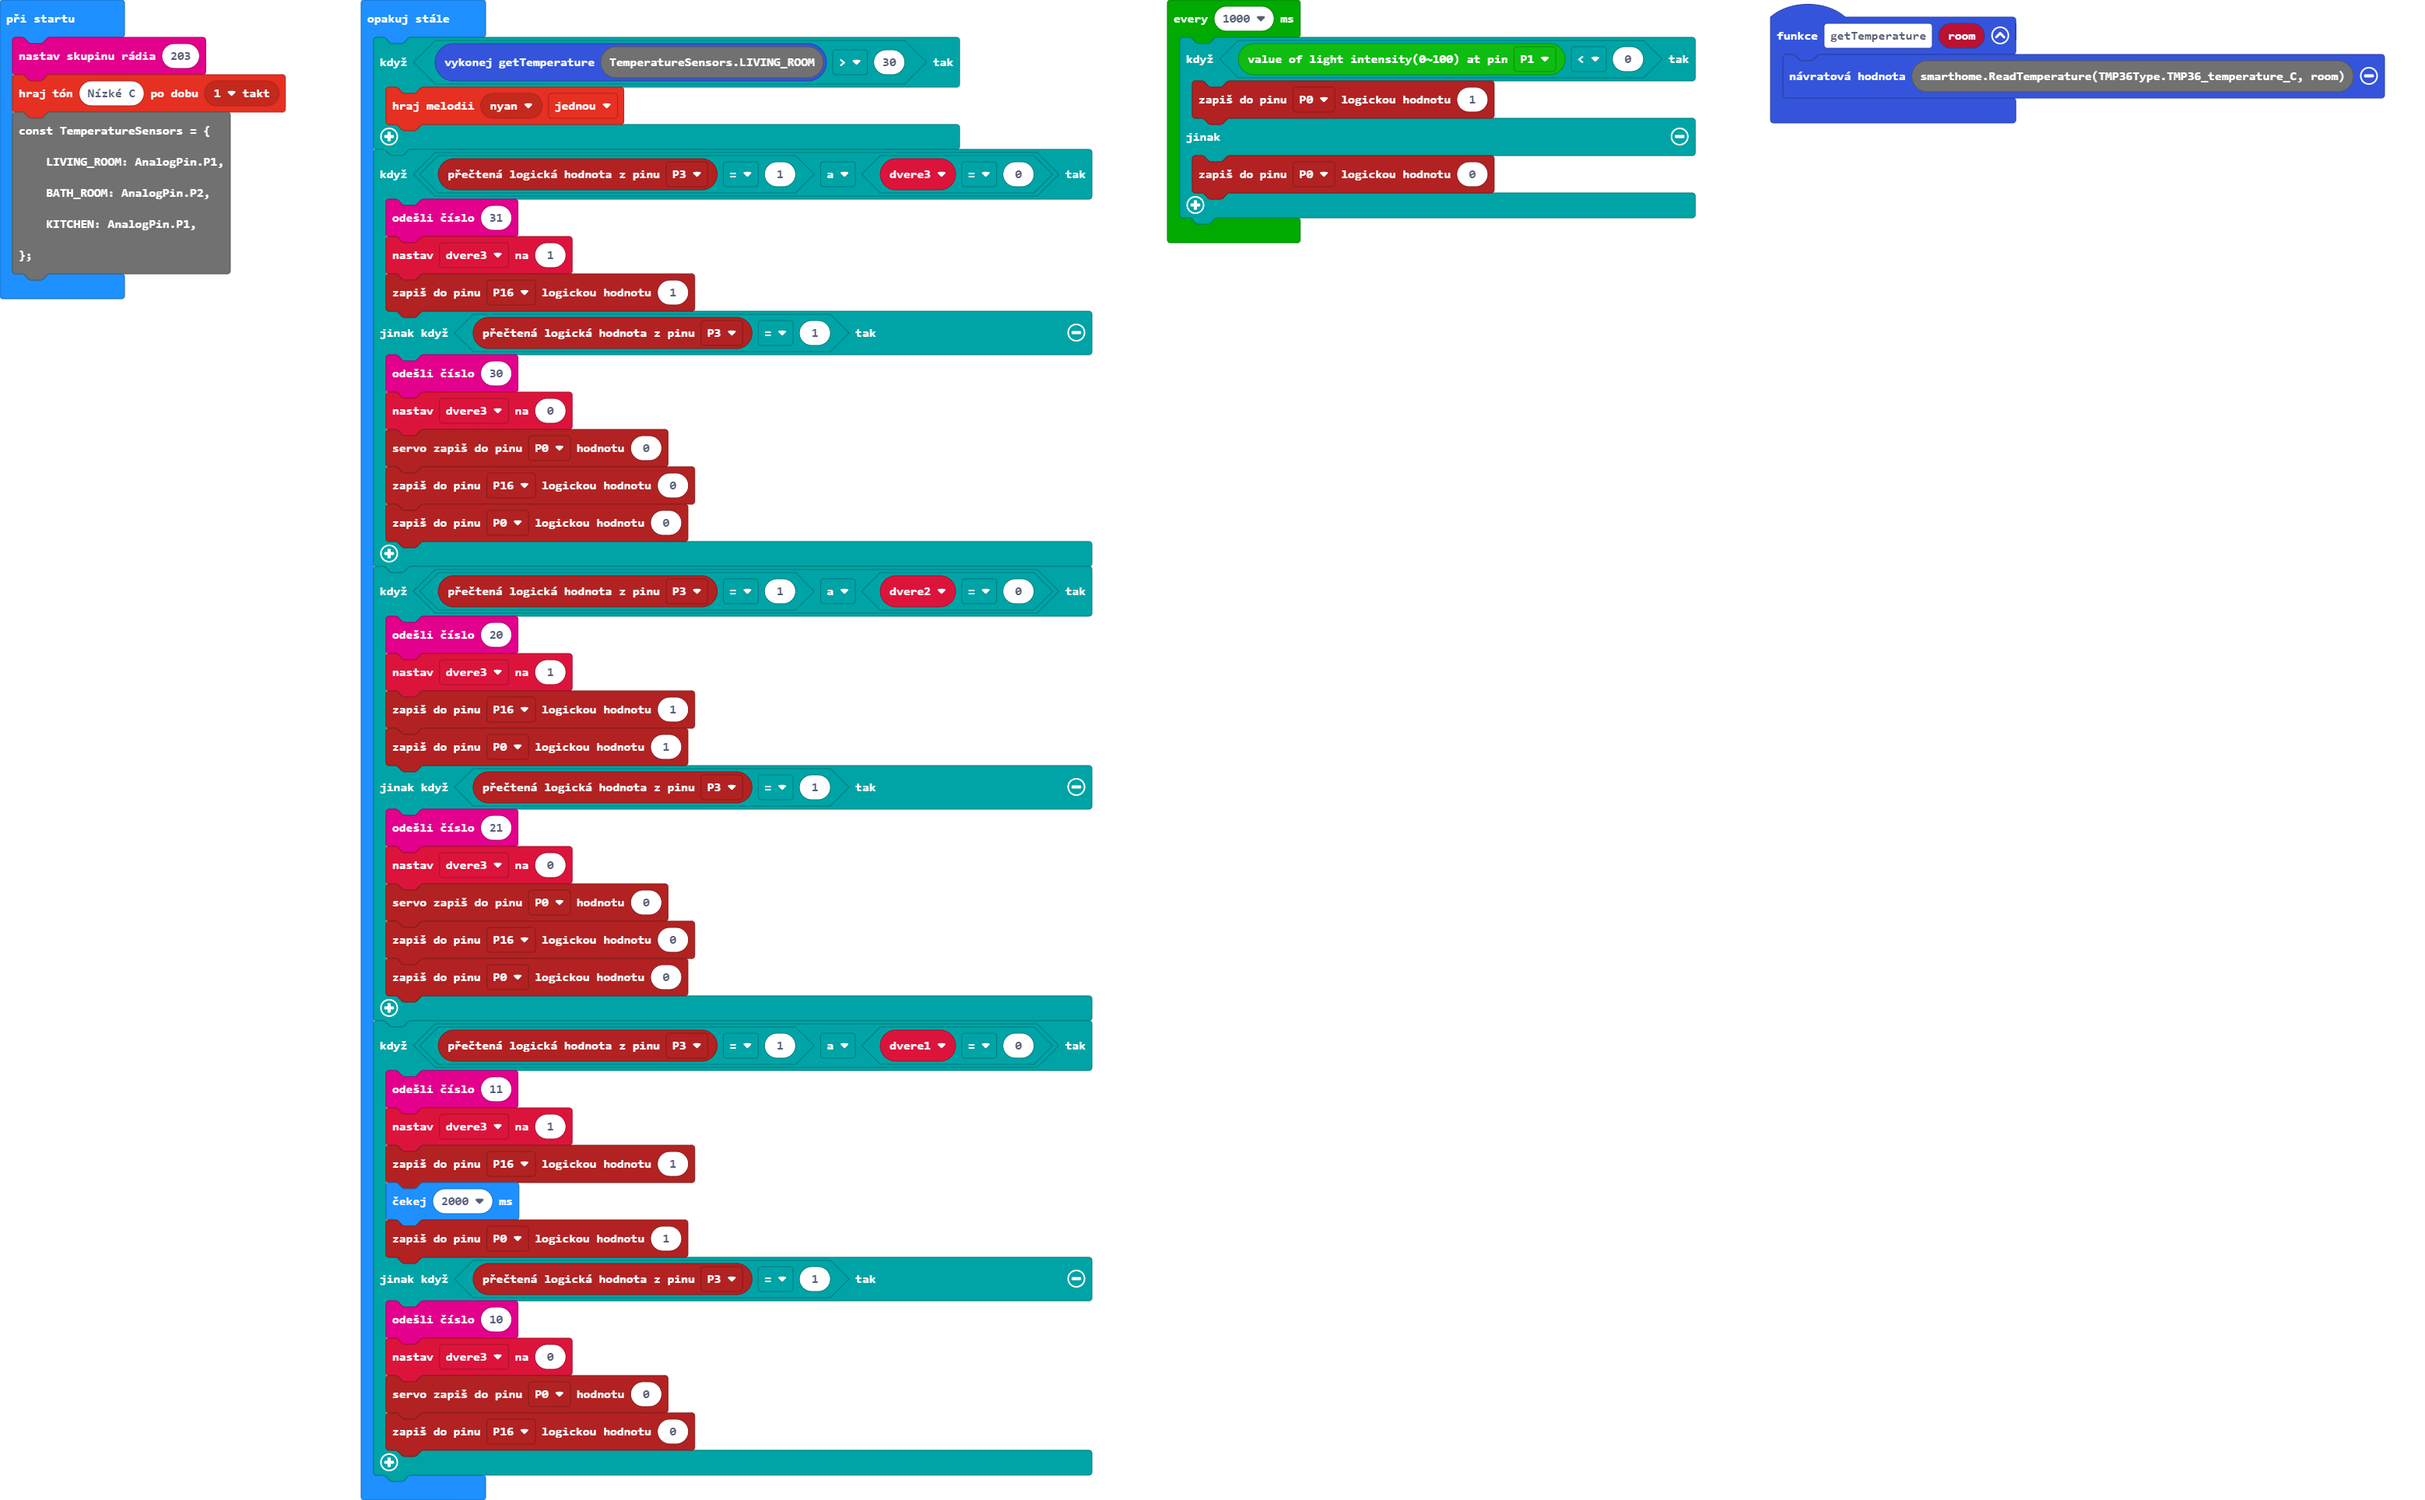
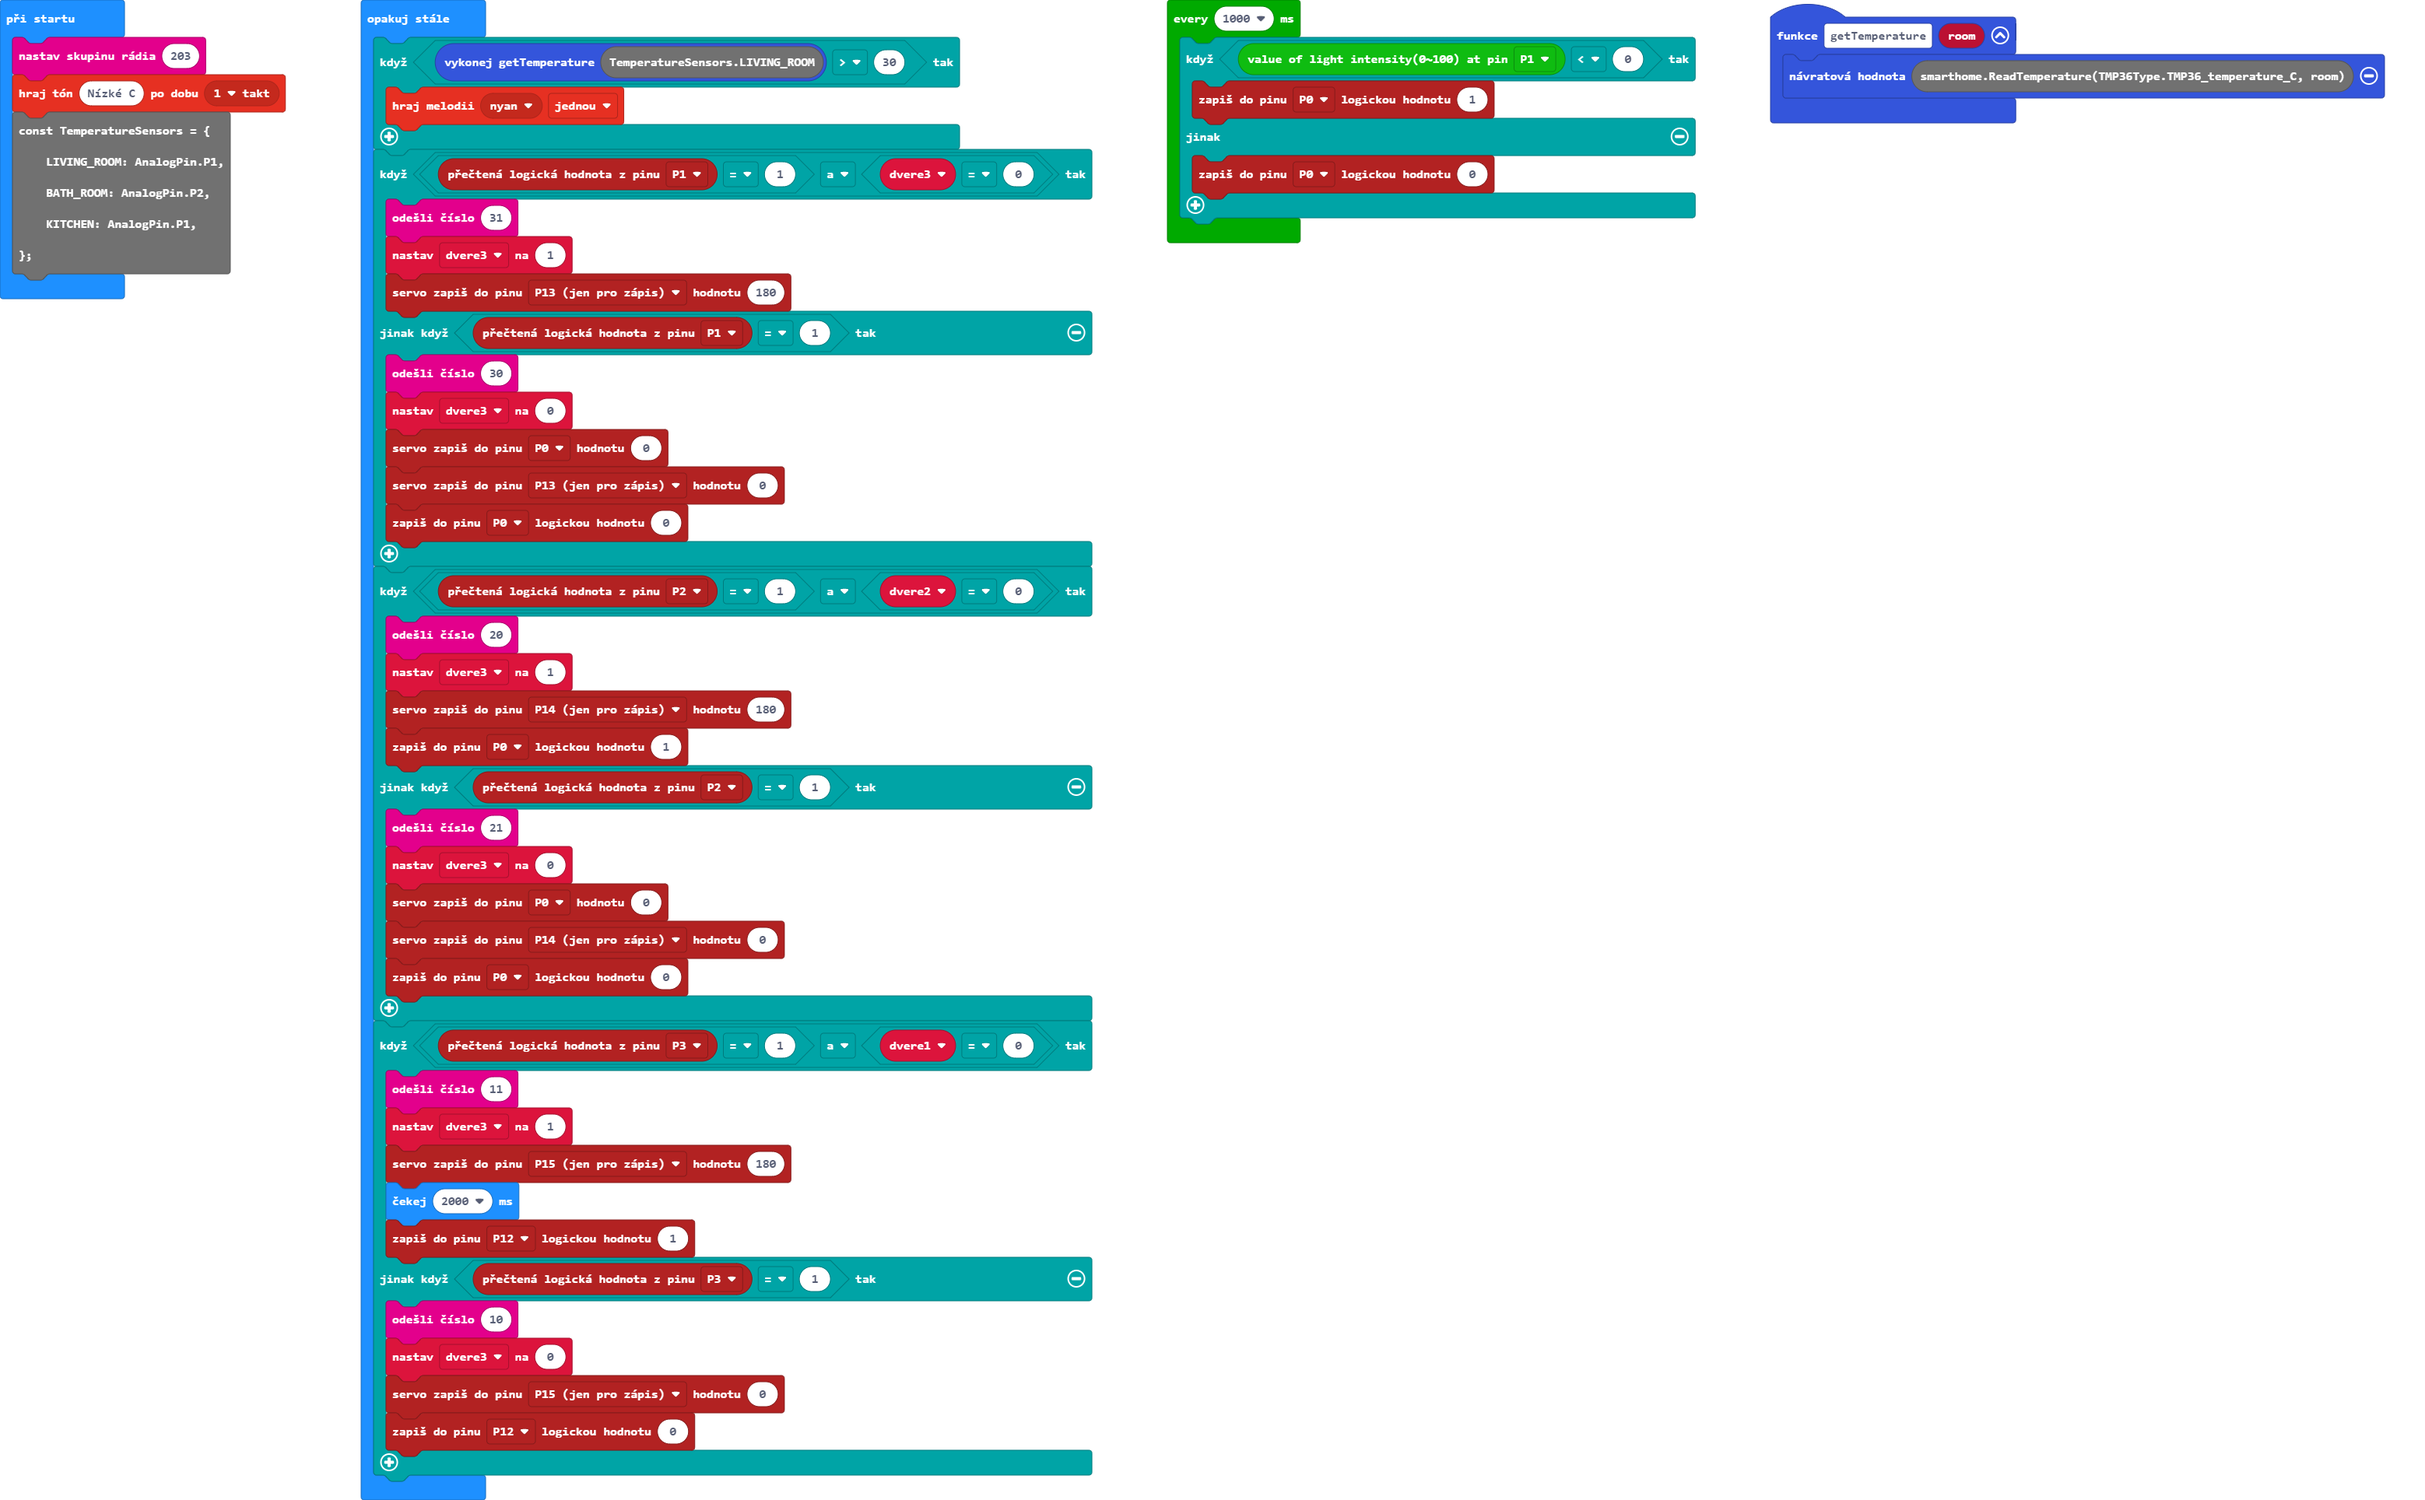
Aktualizovat pxt.json, main.blocks, main.ts

diff --git a/main.ts b/main.ts
@@ -22,39 +22,39 @@ basic.forever(function () {
     if (getTemperature(TemperatureSensors.LIVING_ROOM) > 30) {
         music.startMelody(music.builtInMelody(Melodies.Nyan), MelodyOptions.Once)
     }
-    if (pins.digitalReadPin(DigitalPin.P3) == 1 && dvere3 == 0) {
+    if (pins.digitalReadPin(DigitalPin.P1) == 1 && dvere3 == 0) {
         radio.sendNumber(31)
         dvere3 = 1
-        pins.digitalWritePin(DigitalPin.P16, 1)
-    } else if (pins.digitalReadPin(DigitalPin.P3) == 1) {
+        pins.servoWritePin(AnalogPin.P13, 180)
+    } else if (pins.digitalReadPin(DigitalPin.P1) == 1) {
         radio.sendNumber(30)
         dvere3 = 0
         pins.servoWritePin(AnalogPin.P0, 0)
-        pins.digitalWritePin(DigitalPin.P16, 0)
+        pins.servoWritePin(AnalogPin.P13, 0)
         pins.digitalWritePin(DigitalPin.P0, 0)
     }
-    if (pins.digitalReadPin(DigitalPin.P3) == 1 && dvere2 == 0) {
+    if (pins.digitalReadPin(DigitalPin.P2) == 1 && dvere2 == 0) {
         radio.sendNumber(20)
         dvere3 = 1
-        pins.digitalWritePin(DigitalPin.P16, 1)
+        pins.servoWritePin(AnalogPin.P14, 180)
         pins.digitalWritePin(DigitalPin.P0, 1)
-    } else if (pins.digitalReadPin(DigitalPin.P3) == 1) {
+    } else if (pins.digitalReadPin(DigitalPin.P2) == 1) {
         radio.sendNumber(21)
         dvere3 = 0
         pins.servoWritePin(AnalogPin.P0, 0)
-        pins.digitalWritePin(DigitalPin.P16, 0)
+        pins.servoWritePin(AnalogPin.P14, 0)
         pins.digitalWritePin(DigitalPin.P0, 0)
     }
     if (pins.digitalReadPin(DigitalPin.P3) == 1 && dvere1 == 0) {
         radio.sendNumber(11)
         dvere3 = 1
-        pins.digitalWritePin(DigitalPin.P16, 1)
+        pins.servoWritePin(AnalogPin.P15, 180)
         basic.pause(2000)
-        pins.digitalWritePin(DigitalPin.P0, 1)
+        pins.digitalWritePin(DigitalPin.P12, 1)
     } else if (pins.digitalReadPin(DigitalPin.P3) == 1) {
         radio.sendNumber(10)
         dvere3 = 0
-        pins.servoWritePin(AnalogPin.P0, 0)
-        pins.digitalWritePin(DigitalPin.P16, 0)
+        pins.servoWritePin(AnalogPin.P15, 0)
+        pins.digitalWritePin(DigitalPin.P12, 0)
     }
 })
